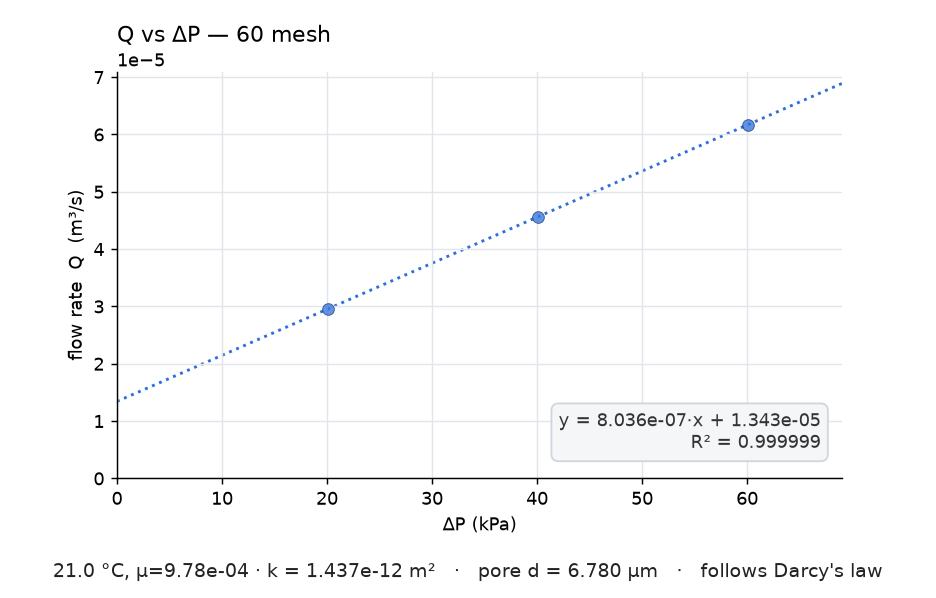
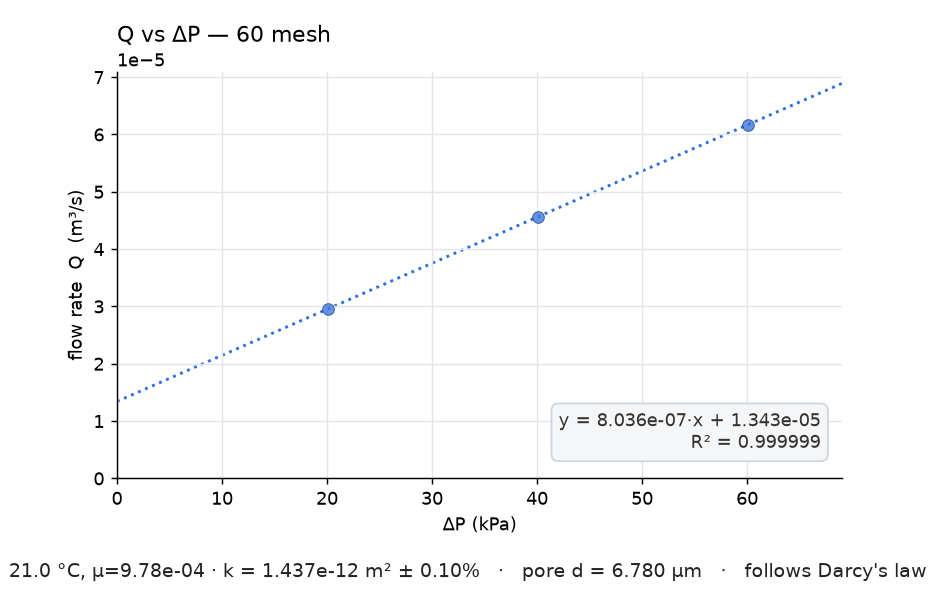
feat(plot): the chart carries k's error bar too
The paper argues Fig. 5 is literally the chart the instrument produces. Once
the instrument started reporting k with a standard error and the figure did
not, that stopped being true — the figure became an edited version of the
output. So the caption carries it: k = 1.437e-12 m2 +- 0.10%.

Kept to a short "+- x.xx%" so the caption stays one line and the figure's
layout does not move. Omitted when n < 3, where the error is unknown rather
than zero, and when k <= 0, where a relative error would print negative —
the same guard the workbook and the controller's status field use.

Regenerated fig5_fit.png through offline_sim.py. Every fitted number is
unchanged (slope 8.0361e-07, R2 1.00000, k 1.4365e-12 m2, pore 6.780 um,
spread 0.000%) and trace.csv stays byte-identical, so nothing hardcoded in
gen_paper.js moved; only the caption line differs. Paper asked for this and
regenerates the .docx/PDF next.

Verified: all three cases render (percent shown, omitted at n=2, omitted at
k<0); provenance unit and end-to-end suites pass.

Changed region(s): [[0.0, 0.9331, 0.9915, 0.9632]]

diff --git a/src/plotting.py b/src/plotting.py
@@ -93,7 +93,13 @@ def plot_permeability(result, out_path, *, title: str = "Q vs ΔP",
 
     verdict = "follows Darcy's law" if result.follows_darcy else "low R² — check linearity"
     tpart = f"{result.water_temp_c:.1f} °C, µ={result.viscosity_pa_s:.2e} · " if result.water_temp_c else ""
-    cap = (f"{tpart}k = {result.k_darcy_m2:.3e} m²   ·   "
+    # k's error bar, kept to a short "± x.xx%" so the caption stays one line.
+    # Omitted when n < 3 (unknown, not zero) and when k <= 0, where a relative
+    # error would come out negative — same guard the workbook uses.
+    kse = getattr(result, "k_stderr_m2", 0.0)
+    kpart = (f" ± {kse / result.k_darcy_m2 * 100:.2f}%"
+             if kse > 0 and result.k_darcy_m2 > 0 else "")
+    cap = (f"{tpart}k = {result.k_darcy_m2:.3e} m²{kpart}   ·   "
            f"pore d = {result.pore_size_m*1e6:.3f} µm   ·   {verdict}")
     fig.subplots_adjust(bottom=0.2)
     fig.text(0.5, 0.035, cap, ha="center", fontsize=10.5, color="#222")
